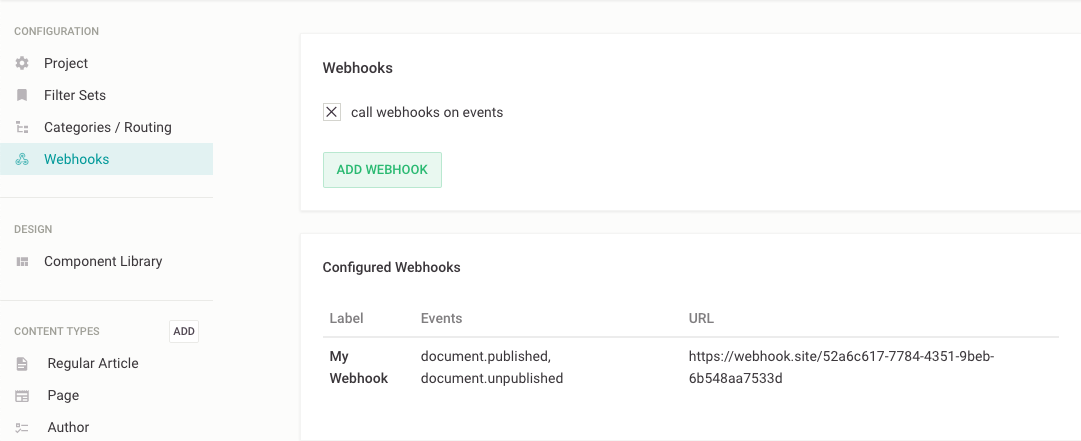
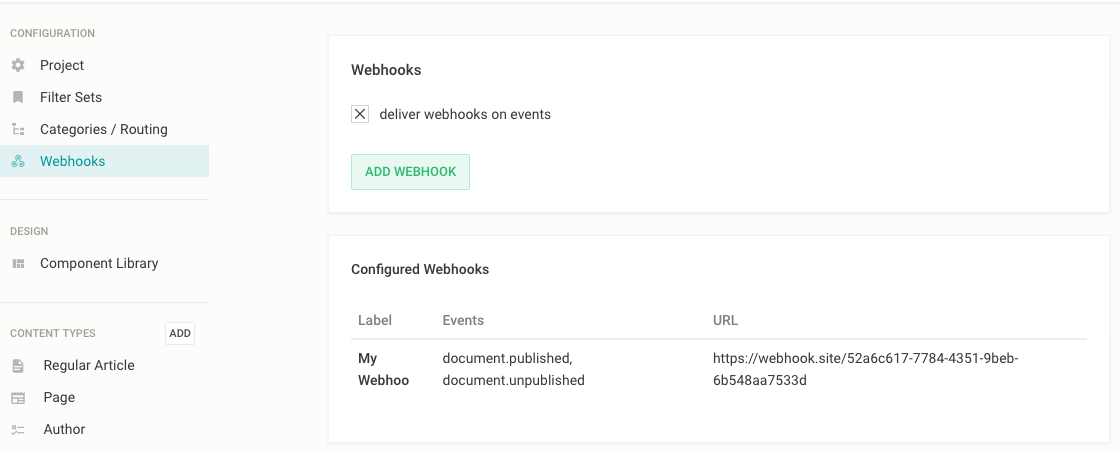
fix(webhooks): update docs after feature refactorings

diff --git a/reference-docs/server-configuration/webhooks.md b/reference-docs/server-configuration/webhooks.md
@@ -6,9 +6,9 @@ You can configure multiple webhooks that are called on only one or both of these
 
 ## Configuration
 
-The feature needs to be enabled in your [server configuration](../server-configuration/config.md#webhooks).
+The feature is enabled by default, you can disable it in your [server configuration](../server-configuration/config.md#webhooks).
 
-In the project menu, select "Project Setup", then select "Webhooks" in the "Configuration" section of the menu. You can enable/disable all your configured webhooks using the setting "call webhooks on events".
+In the project menu, select "Project Setup", then select "Webhooks" in the "Configuration" section of the menu. You can activate/deactivate all your configured webhooks using the setting "deliver webhooks on events".
 
 ![Webhooks Configuration](./webhooks.png)
 
@@ -32,7 +32,7 @@ The configuration of webhooks is stored in `channelConfig.settings.webhooks`.
 
 ```
 webhooks: {
-  enabled: true
+  active: true
   configurations: [{
     handle: 'my-webhook',
     label: 'My Webhook',
@@ -46,13 +46,13 @@ webhooks: {
 ```
 
 ## Payload
-The payload sent to your webhook endpoints looks like this. The `requestId` is unique for every call.
+The payload sent to your webhook endpoints looks like this. The `deliveryId` is unique for every call.
 
 `document.published`
 ```
 {
   "event": "document.published",
-  "requestId": "o4-0Rdu0f695qnlun0iY-",
+  "deliveryId": "o4-0Rdu0f695qnlun0iY-",
   "projectId": 8,
   "projectHandle": "magazine",
   "webhookHandle": "my-webhook",
@@ -73,7 +73,7 @@ The payload sent to your webhook endpoints looks like this. The `requestId` is u
 ```
 {
   "event": "document.unpublished",
-  "requestId": "HMCywrXG5EDPqwrogRfum",
+  "deliveryId": "HMCywrXG5EDPqwrogRfum",
   "projectId": 8,
   "projectHandle": "magazine",
   "webhookHandle": "my-webhook",
@@ -92,7 +92,7 @@ The payload sent to your webhook endpoints looks like this. The `requestId` is u
 
 ## Securing your webhooks
 If you have defined a `secret` for your webhook, Livingdocs uses this to create a signature of the payload and sends it with the request in the HTTP header `x-livingdocs-signature`.
-The signature is created using HMAC-SHA1 and will be sent in `x-livingdocs-signature` in the form `sha1=<hex digest>` for example `sha1=d8a47af83666a771d57117aa28ef8d3243a3de43`.
+The signature is created using HMAC-SHA256 and will be sent in `x-livingdocs-signature` in the form `sha256=<hex digest>` for example `sha256=d8a47af83666a771d57117aa28ef8d3243a3de43`.
 
 Here is sample code in JavaScript to validate the signature in your endpoint:
 
@@ -106,8 +106,8 @@ const secret = 'a-secret-token-to-sign-the-request' // you should not hardcode t
 
 // compute the hmac on the received payload using the same secret
 const crypto = require('crypto')
-const hmac = crypto.createHmac('sha1', secret)
-const payloadSignature = Buffer.from(`sha1=${hmac.update(payload).digest('hex')}`, 'utf8')
+const hmac = crypto.createHmac('sha256', secret)
+const payloadSignature = Buffer.from(`sha256=${hmac.update(payload).digest('hex')}`, 'utf8')
 const checksum = Buffer.from(signature, 'utf8')
 
 // use timingSafeEqual to compare the signature sent from livingdocs with the computed checksum

diff --git a/reference-docs/server-configuration/config.md b/reference-docs/server-configuration/config.md
@@ -787,9 +787,10 @@ integrations: {
 
 Added in: `release-2020-05`
 
+To disable the webhooks feature, add this:
 ```js
 webhooks: {
-  enabled: true
+  enabled: false
 }
 ```
 
